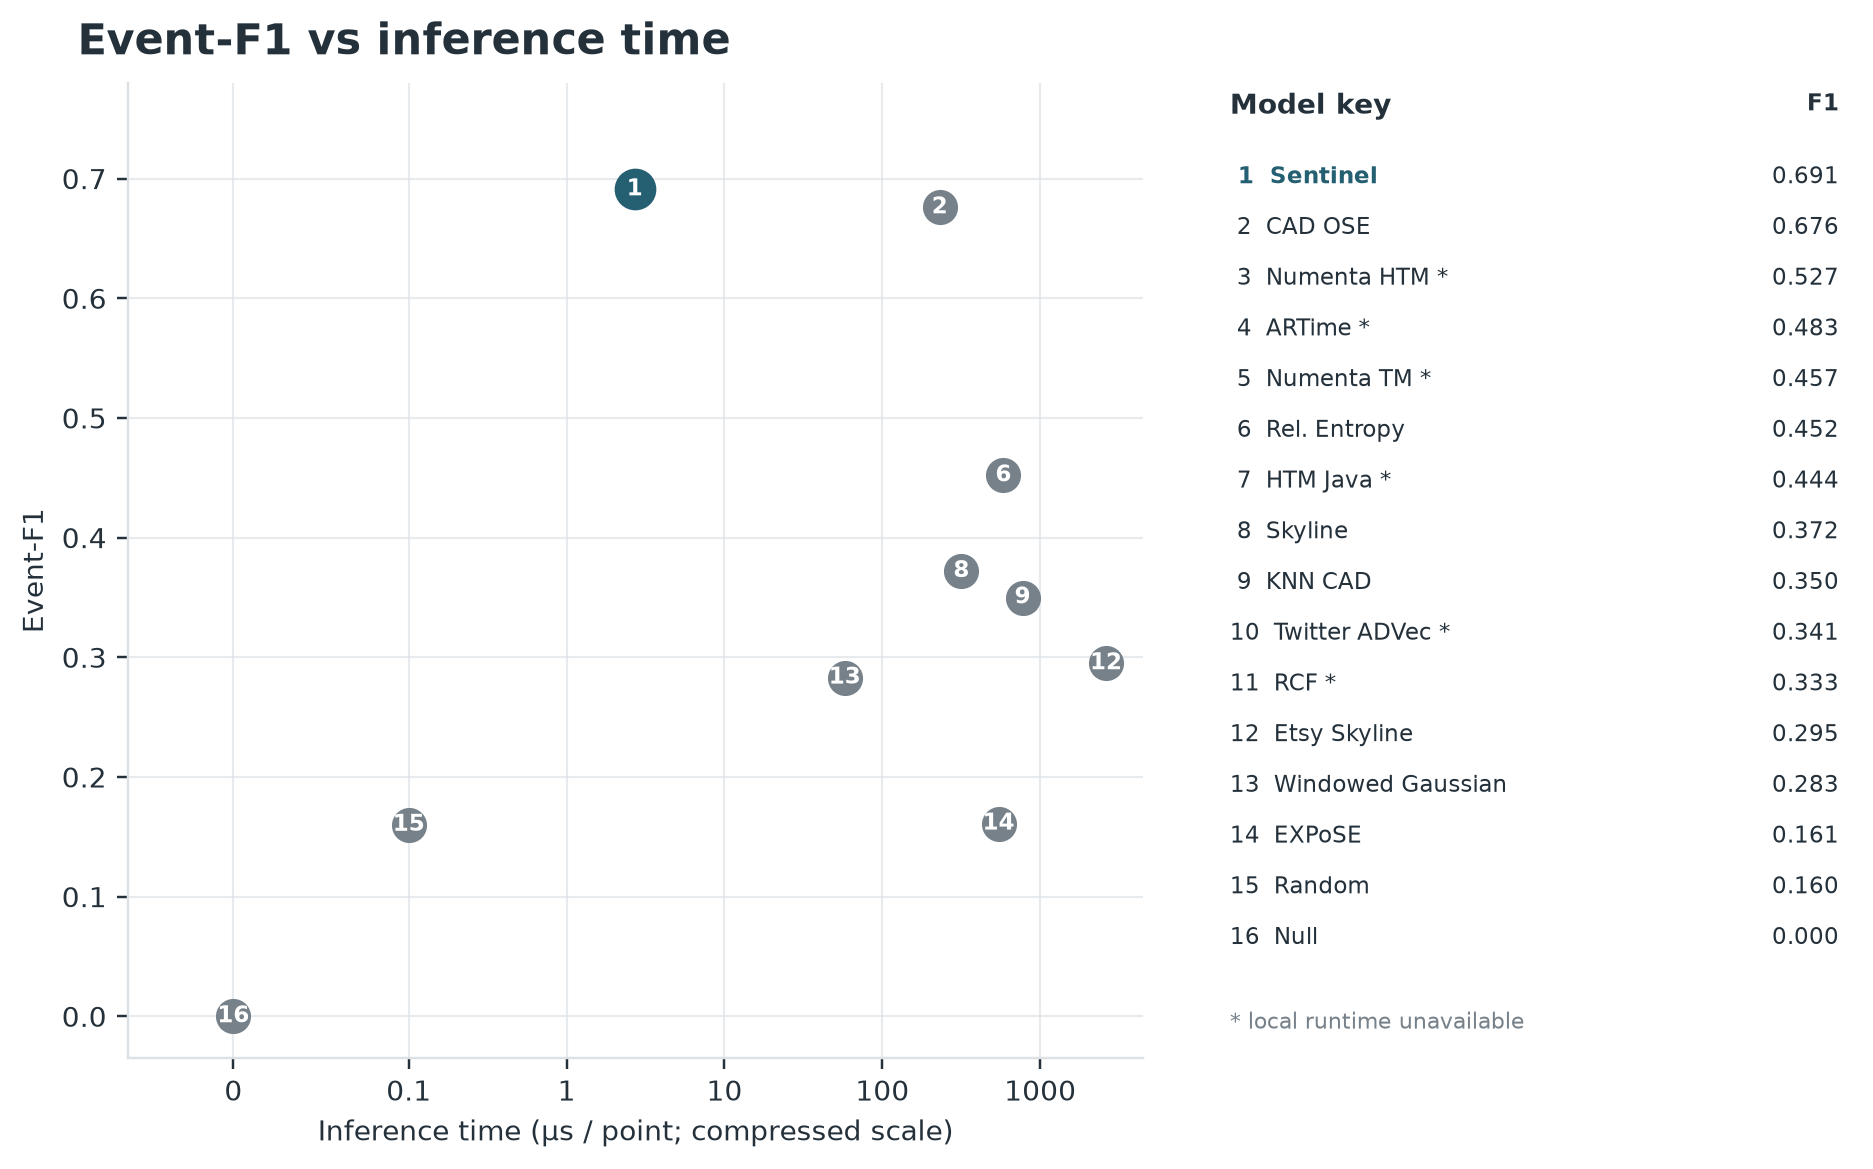
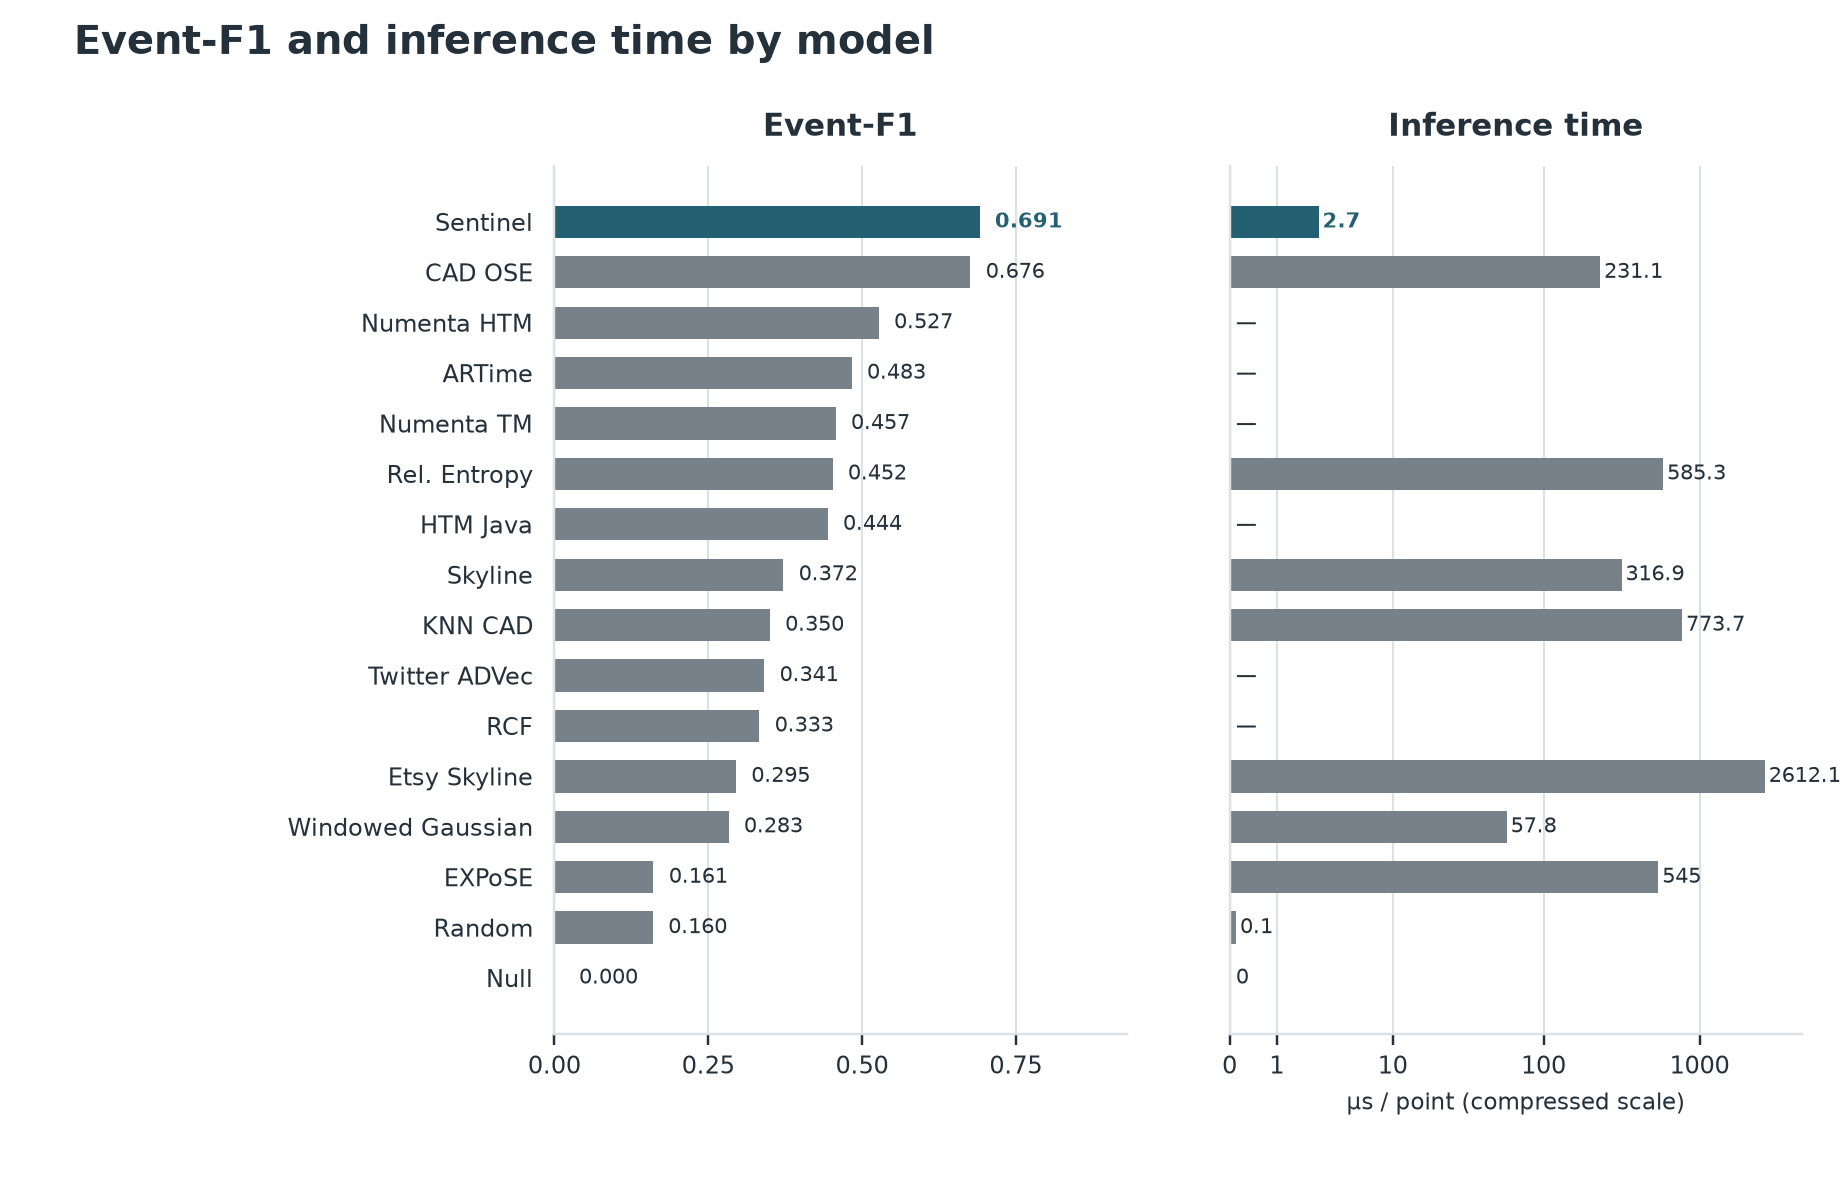
[lokesh] L13: use two-panel horizontal comparison bars

diff --git a/eval/presentation_charts.py b/eval/presentation_charts.py
@@ -1,15 +1,15 @@
-"""Two compact, single-default comparison charts for the 10-slide presentation.
+"""Two compact, two-panel comparison charts for the 10-slide presentation.
 
 Source: results/model_comparison.md, generated by eval.nab_compare.
 Run: python -m eval.presentation_charts
 """
 from __future__ import annotations
 
+from math import log10
 from dataclasses import dataclass
 from pathlib import Path
 
 import matplotlib.pyplot as plt
-from matplotlib.ticker import FixedLocator, FuncFormatter
 
 from eval.data import REPO_ROOT
 
@@ -75,7 +75,7 @@ def short_name(name: str) -> str:
 
 def style() -> None:
     plt.rcParams.update({
-        "font.family": "DejaVu Sans", "font.size": 9,
+        "font.family": "DejaVu Sans", "font.size": 8,
         "axes.edgecolor": GRID, "axes.labelcolor": INK, "text.color": INK,
         "xtick.color": INK, "ytick.color": INK,
         "axes.spines.top": False, "axes.spines.right": False,
@@ -84,98 +84,56 @@ def style() -> None:
     })
 
 
-def event_f1_vs_time(models: list[Model], path: Path) -> None:
-    fig = plt.figure(figsize=(8.4, 5.2), layout="constrained")
-    grid = fig.add_gridspec(1, 2, width_ratios=[1.6, 1], wspace=0.08)
-    ax = fig.add_subplot(grid[0, 0])
-    side = fig.add_subplot(grid[0, 1])
+def two_panel(models: list[Model], left_name: str, right_name: str, path: Path) -> None:
+    fig, (left, right) = plt.subplots(1, 2, figsize=(8.4, 5.4), sharey=True)
+    fig.subplots_adjust(left=0.30, right=0.975, top=0.86, bottom=0.13, wspace=0.18)
+    rows = list(range(len(models)))
+    colours = [ACCENT if model.ours else MUTED for model in models]
 
-    for number, model in enumerate(models, 1):
-        if model.us is None:
-            continue
-        ax.scatter(model.us, model.f1, s=160 if model.ours else 110,
-                   color=ACCENT if model.ours else MUTED, zorder=3)
-        ax.annotate(str(number), (model.us, model.f1), ha="center", va="center",
-                    fontsize=7.4, weight="bold", color="white")
-    ax.set_xscale("symlog", linthresh=0.1)
-    ax.set_xlim(-0.06, 4500)
-    ax.set_ylim(-0.035, 0.78)
-    ax.xaxis.set_major_locator(FixedLocator([0, 0.1, 1, 10, 100, 1000]))
-    ax.xaxis.set_major_formatter(FuncFormatter(lambda value, _: f"{value:g}"))
-    ax.set_xlabel("Inference time (µs / point; compressed scale)")
-    ax.set_ylabel("Event-F1")
-    ax.grid(color=GRID, alpha=0.65, linewidth=0.7)
+    def value(model: Model, metric: str) -> float | None:
+        return {"Event-F1": model.f1, "Inference time": model.us,
+                "Precision": model.precision, "Recall": model.recall}[metric]
 
-    side.axis("off")
-    side.text(0.02, 0.99, "Model key", fontsize=9, weight="bold", va="top")
-    side.text(0.98, 0.99, "F1", fontsize=7.6, weight="bold", ha="right", va="top")
-    for i, model in enumerate(models):
-        y = 0.915 - i * 0.052
-        name = short_name(model.name) + (" *" if model.us is None else "")
-        side.text(0.02, y, f"{i + 1:>2}  {name}", fontsize=7.5,
-                  weight="bold" if model.ours else "normal",
-                  color=ACCENT if model.ours else INK, va="top")
-        side.text(0.98, y, f"{model.f1:.3f}", fontsize=7.5, ha="right", va="top")
-    side.text(0.02, 0.025, "* local runtime unavailable", fontsize=7.2,
-              color=MUTED, va="bottom")
-    fig.suptitle("Event-F1 vs inference time", x=0.035, ha="left", fontsize=14, weight="bold")
-    fig.savefig(path, dpi=220, bbox_inches="tight")
+    for ax, metric in ((left, left_name), (right, right_name)):
+        raw = [value(model, metric) for model in models]
+        # Compress the large latency range so the 2.7 µs Sentinel bar remains visible.
+        plotted = [log10(1 + number) if metric == "Inference time" and number is not None
+                   else number or 0 for number in raw]
+        ax.barh(rows, plotted, height=0.64, color=colours, zorder=2)
+        ax.set_title(metric, fontsize=10, weight="bold", pad=10)
+        ax.grid(axis="x", color=GRID, linewidth=0.7, zorder=0)
+        ax.set_axisbelow(True)
+        if metric == "Inference time":
+            ticks = [0, 1, 10, 100, 1000]
+            ax.set_xticks([log10(1 + tick) for tick in ticks], [str(tick) for tick in ticks])
+            ax.set_xlim(0, log10(1 + 4500))
+            ax.set_xlabel("µs / point (compressed scale)", fontsize=7.7)
+        else:
+            ax.set_xlim(0, 0.93 if metric == "Event-F1" else 1.08)
+            ax.set_xticks([0, 0.25, 0.5, 0.75] if metric == "Event-F1"
+                          else [0, 0.25, 0.5, 0.75, 1.0])
+        for row, (number, length) in enumerate(zip(raw, plotted)):
+            label = "—" if number is None else (f"{number:g}" if metric == "Inference time"
+                                                    else f"{number:.3f}")
+            ax.text(max(length + 0.025, 0.04), row, label, va="center", fontsize=7.0,
+                    color=ACCENT if models[row].ours else INK,
+                    weight="bold" if models[row].ours else "normal")
+    left.set_yticks(rows, [short_name(model.name) for model in models], fontsize=7.8)
+    left.tick_params(axis="y", length=0, pad=7, labelleft=True)
+    right.tick_params(axis="y", length=0, labelleft=False)
+    left.invert_yaxis()
+    fig.suptitle(f"{left_name} and {right_name.lower()} by model", x=0.04, ha="left",
+                 fontsize=13, weight="bold")
+    fig.savefig(path, dpi=220)
     plt.close(fig)
+
+
+def event_f1_vs_time(models: list[Model], path: Path) -> None:
+    two_panel(models, "Event-F1", "Inference time", path)
 
 
 def precision_vs_recall(models: list[Model], path: Path) -> None:
-    fig = plt.figure(figsize=(8.4, 5.2), layout="constrained")
-    grid = fig.add_gridspec(1, 2, width_ratios=[1.6, 1], wspace=0.08)
-    ax = fig.add_subplot(grid[0, 0])
-    side = fig.add_subplot(grid[0, 1])
-    plotted = [model for model in models if model.precision is not None]
-    for number, model in enumerate(plotted, 1):
-        ax.scatter(model.recall, model.precision, s=160 if model.ours else 105,
-                   color=ACCENT if model.ours else MUTED, zorder=3)
-    # Keep exact point locations. If several sit almost on top of each other,
-    # place one combined identifier next to them so no model disappears.
-    groups: list[list[int]] = []
-    for i, model in enumerate(plotted):
-        for group in groups:
-            first = plotted[group[0]]
-            if abs(model.recall - first.recall) <= 0.012 and abs(model.precision - first.precision) <= 0.012:
-                group.append(i)
-                break
-        else:
-            groups.append([i])
-    for group in groups:
-        if len(group) == 1:
-            i = group[0]
-            model = plotted[i]
-            ax.annotate(str(i + 1), (model.recall, model.precision), ha="center", va="center",
-                        fontsize=7.2, weight="bold", color="white")
-        else:
-            x = sum(plotted[i].recall for i in group) / len(group)
-            y = sum(plotted[i].precision for i in group) / len(group)
-            label = "/".join(str(i + 1) for i in group)
-            ax.annotate(label, (x, y), xytext=(5, -11),
-                        textcoords="offset points", fontsize=7.2, color=INK,
-                        bbox={"facecolor": "white", "edgecolor": "none", "pad": 0.6})
-    ax.set_xlim(0.30, 1.0)
-    ax.set_ylim(0.0, 0.82)
-    ax.set_xticks([0.4, 0.6, 0.8, 1.0])
-    ax.set_yticks([0.0, 0.2, 0.4, 0.6, 0.8])
-    ax.set_xlabel("Recall →")
-    ax.set_ylabel("Precision →")
-    ax.grid(color=GRID, alpha=0.65, linewidth=0.7)
-
-    side.axis("off")
-    side.text(0.02, 0.99, "Model key", fontsize=9, weight="bold", va="top")
-    for i, model in enumerate(plotted):
-        y = 0.915 - i * 0.052
-        side.text(0.02, y, f"{i + 1:>2}  {short_name(model.name)}", fontsize=7.5,
-                  weight="bold" if model.ours else "normal",
-                  color=ACCENT if model.ours else INK, va="top")
-    side.text(0.02, 0.025, "Null: precision undefined", fontsize=7.2,
-              color=MUTED, va="bottom")
-    fig.suptitle("Precision vs recall", x=0.035, ha="left", fontsize=14, weight="bold")
-    fig.savefig(path, dpi=220, bbox_inches="tight")
-    plt.close(fig)
+    two_panel(models, "Precision", "Recall", path)
 
 
 def main() -> None:

diff --git a/presentation.md b/presentation.md
@@ -117,11 +117,11 @@ Event manager → score, label, explanation
 | Numenta HTM | 0.527 | 152 | — |
 | Windowed Gaussian (NAB) | 0.283 | 326 | 57.8 µs |
 
-![Event-F1 versus inference time: current Sentinel default and published NAB models](results/figures/event_f1_vs_inference_time.png)
+![Two-panel horizontal bars comparing event-F1 and inference time](results/figures/event_f1_vs_inference_time.png)
 
-![Precision versus recall: current Sentinel default and published NAB models](results/figures/precision_vs_recall_models.png)
+![Two-panel horizontal bars comparing precision and recall](results/figures/precision_vs_recall_models.png)
 
-The charts include all models with recorded event metrics. Models without a local runtime are listed beside the first chart; Null has undefined precision and is listed beside the second. Published models' event results use NAB's stored scores and thresholds. Measured runtimes use the same machine.
+The charts include all models with recorded event metrics. A dash means no local runtime or undefined precision. The time axis is compressed, but its value labels are in actual µs per point. Published models' event results use NAB's stored scores and thresholds; measured runtimes use the same machine.
 
 ---
 

diff --git a/logs/lokesh.md b/logs/lokesh.md
@@ -107,3 +107,8 @@
 - Changed: `eval/presentation_charts.py`, `results/figures/event_f1_vs_inference_time.png`, `results/figures/precision_vs_recall_models.png`, `presentation.md`.
 - Result: added event-F1 versus measured inference time and precision versus recall charts for 15 NAB comparison models plus the current Sentinel default. Models without runnable local latency and Null's undefined precision are labelled.
 - Notes / next: charts use `results/model_comparison.md`, one muted accent colour, and numbered model keys for slide readability. PDF generation remains deferred during Markdown review.
+
+## 2026-10-27 14:16 — L13 Change comparisons to horizontal bars
+- Changed: `eval/presentation_charts.py`, both comparison figures, `presentation.md`.
+- Result: each figure now has two aligned horizontal bar panels in the same model order. Missing runtimes and undefined precision show a dash; the time panel uses a labelled compressed scale.
+- Notes / next: regenerated and visually checked both images. No PDF generated.
